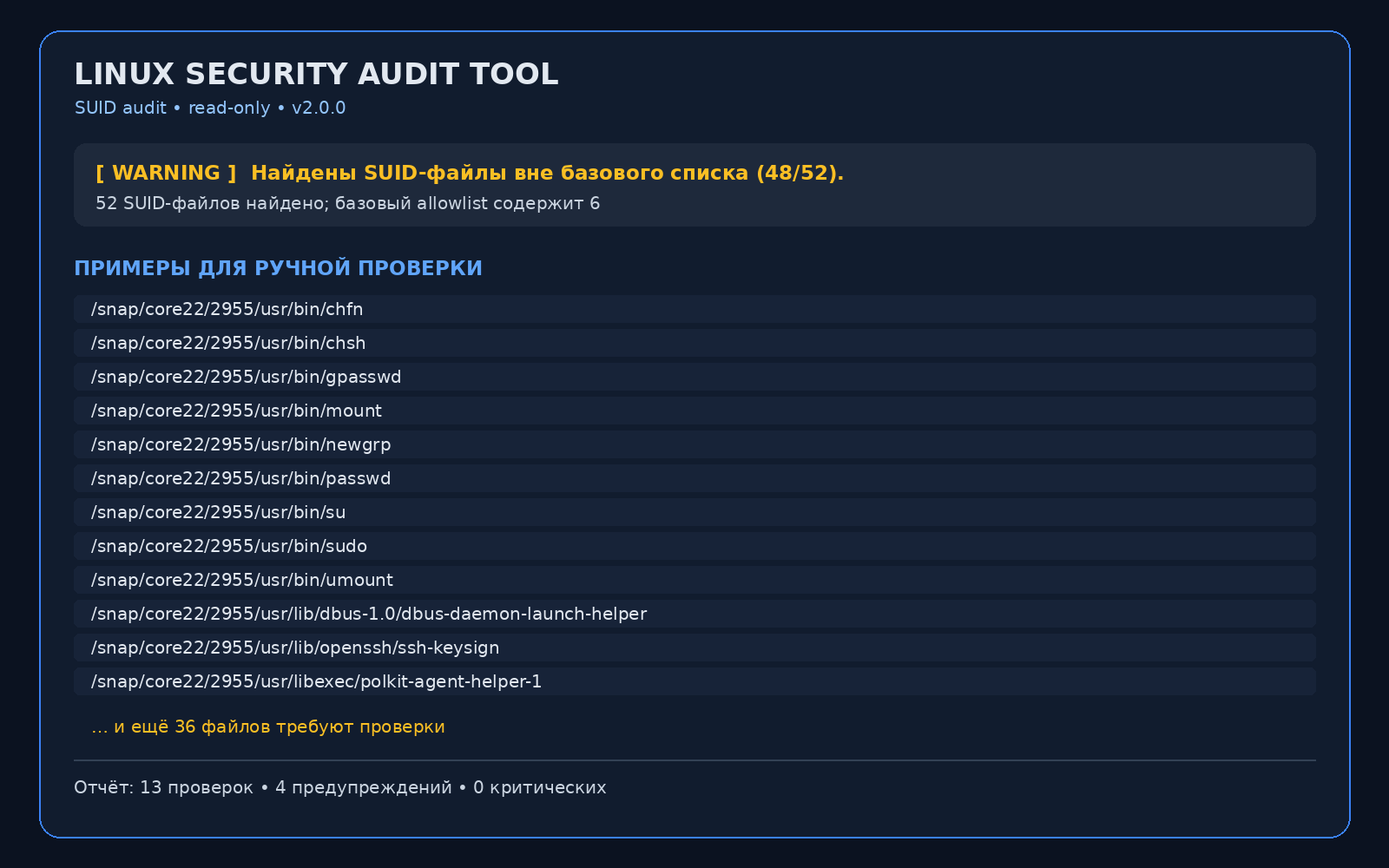
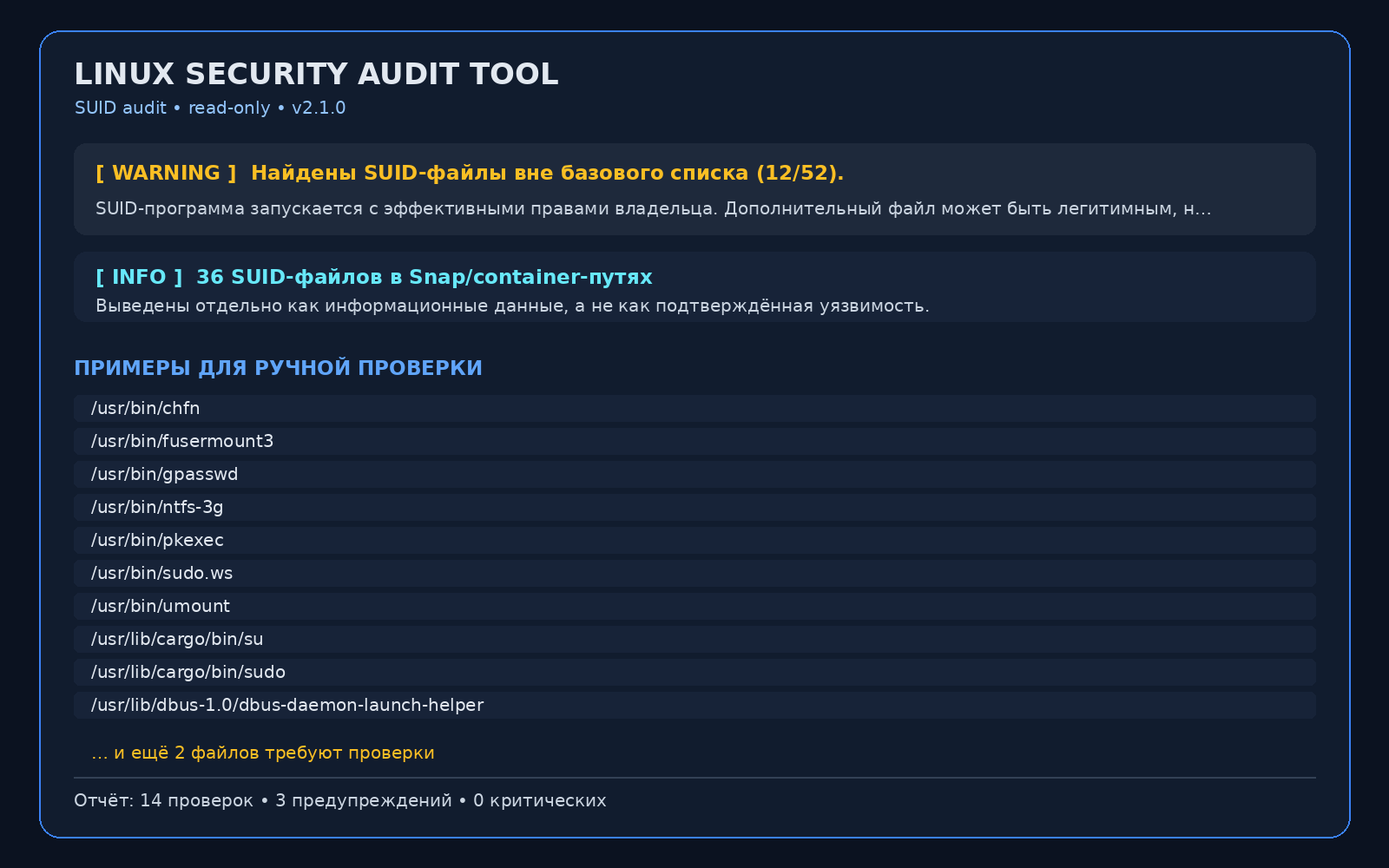
v2.1.0: refine Linux audit findings and tests

Changed region(s): [[0.0312, 0.279, 0.9375, 0.93], [0.0625, 0.186, 0.8438, 0.248]]

diff --git a/audit_pro.py b/audit_pro.py
@@ -19,10 +19,11 @@ import stat
 import subprocess
 import sys
 import unittest
+import tempfile
 from datetime import datetime, timezone
 
-VERSION = "2.0.0"
-LOG_FILE = "linux_security_audit.log"
+VERSION = "2.1.0"
+LOG_FILE = os.path.expanduser("~/.local/share/linux_audit/audit.log")
 
 
 class Color:
@@ -48,6 +49,7 @@ SUID_ALLOWLIST = {
     "/usr/bin/passwd", "/usr/bin/sudo", "/usr/bin/su",
     "/bin/mount", "/usr/bin/mount", "/usr/bin/chsh",
 }
+SUID_IGNORED_PREFIXES = ("/snap/", "/var/lib/snapd/", "/var/lib/docker/", "/var/lib/containerd/")
 SUID_OWNER_COMMANDS = {
     "apt": "dpkg -S", "dnf": "rpm -qf", "zypper": "rpm -qf",
     "pacman": "pacman -Qo", "apk": "apk info --who-owns",
@@ -61,9 +63,11 @@ UPDATE_COMMANDS = {
 }
 
 
-def setup_logging(path=LOG_FILE):
-    """Настроить журналирование в файл; ошибка лог-файла не прерывает аудит."""
+def setup_logging(path=None):
+    """Настроить журнал в пользовательском каталоге; ошибка не прерывает аудит."""
+    path = os.path.expanduser(path or LOG_FILE)
     try:
+        os.makedirs(os.path.dirname(path) or ".", mode=0o700, exist_ok=True)
         logging.basicConfig(filename=path, level=logging.INFO,
                             format="%(asctime)s %(levelname)s %(message)s",
                             encoding="utf-8", force=True)
@@ -104,16 +108,49 @@ def detect_distribution(os_release=None):
 
 def parse_update_names(lines):
     """Извлечь имена пакетов, игнорируя служебные заголовки менеджеров."""
-    ignored_prefixes = ("warning", "notice", "listing...", "name", "last metadata", "repository")
+    ignored_prefixes = ("warning", "notice", "listing...", "last metadata", "repository")
     names = []
     for line in lines:
         stripped = line.strip()
         if not stripped or stripped.lower().startswith(ignored_prefixes):
             continue
-        candidate = stripped.split()[0].split("/", 1)[0]
+        candidate = stripped.split()[0].split("/", 1)[0].split(":", 1)[0]
         if candidate not in ("", "*", "=") and candidate not in names:
             names.append(candidate)
     return names
+
+
+def evaluate_permission(path, mode):
+    """Вернуть уровень режима файла; более строгая маска допустима."""
+    allowed = {"/etc/passwd": 0o644, "/etc/shadow": 0o640, "/etc/sudoers": 0o440}.get(path)
+    if allowed is None or not (mode & ~allowed):
+        return "OK"
+    sensitive = path in ("/etc/shadow", "/etc/sudoers")
+    exposed = bool(mode & 0o077)
+    return "CRITICAL" if sensitive and exposed else "WARNING"
+
+
+def classify_suid_paths(paths, allowlist=None):
+    """Разделить SUID-пути на подозрительные и ожидаемые snap/container пути."""
+    allowed = SUID_ALLOWLIST if allowlist is None else allowlist
+    unusual, isolated = [], []
+    for path in paths:
+        if path in allowed:
+            continue
+        if path.startswith(SUID_IGNORED_PREFIXES):
+            isolated.append(path)
+        else:
+            unusual.append(path)
+    return unusual, isolated
+
+
+def update_result_status(manager, returncode, package_names):
+    """Нормализовать разные коды возврата менеджеров обновлений."""
+    accepted = {"apt": (0,), "dnf": (0, 100), "pacman": (0, 1),
+                "zypper": (0,), "apk": (0,)}.get(manager, (0,))
+    if returncode not in accepted:
+        return "ERROR"
+    return "UPDATES" if package_names else "OK"
 
 
 def command_result(args, timeout=15):
@@ -172,9 +209,9 @@ class LinuxSecurityAudit:
                              "Без метаданных файла нельзя подтвердить его защиту.",
                              "Проверьте наличие и доступность файла: sudo stat {}".format(path), {"path": path, "error": str(exc)})
                 continue
-            if mode & ~allowed:
-                critical = path in ("/etc/shadow", "/etc/sudoers")
-                self.finding("PERM-002", "Права доступа", "CRITICAL" if critical else "WARNING",
+            level = evaluate_permission(path, mode)
+            if level != "OK":
+                self.finding("PERM-002", "Права доступа", level,
                              "Слишком широкие права у {} ({:04o}).".format(path, mode), reason,
                              "sudo chmod {:04o} {}".format(allowed, path),
                              {"path": path, "mode": "{:04o}".format(mode)})
@@ -183,10 +220,10 @@ class LinuxSecurityAudit:
                              "Текущая маска не шире принятого базового значения.",
                              "Исправление не требуется.", {"path": path, "mode": "{:04o}".format(mode)})
 
-    def check_accounts(self):
+    def check_accounts(self, passwd_path="/etc/passwd", shadow_path="/etc/shadow"):
         """Найти дополнительные UID 0 и пустые поля паролей."""
         try:
-            with open("/etc/passwd", encoding="utf-8", errors="replace") as stream:
+            with open(passwd_path, encoding="utf-8", errors="replace") as stream:
                 users = [line.rstrip("\n").split(":") for line in stream if line.count(":") >= 6]
         except OSError as exc:
             self.finding("USER-001", "Пользователи", "WARNING", "Не удалось прочитать /etc/passwd.",
@@ -202,8 +239,12 @@ class LinuxSecurityAudit:
             self.finding("USER-OK", "Пользователи", "OK", "Дополнительных UID 0 нет.",
                          "Только аккаунт root имеет UID 0.", "Исправление не требуется.")
         try:
-            with open("/etc/shadow", encoding="utf-8", errors="replace") as stream:
-                empty = [parts[0] for line in stream if len(parts := line.rstrip("\n").split(":")) > 1 and parts[1] == ""]
+            with open(shadow_path, encoding="utf-8", errors="replace") as stream:
+                empty = []
+                for line in stream:
+                    parts = line.rstrip("\n").split(":")
+                    if len(parts) > 1 and parts[1] == "":
+                        empty.append(parts[0])
         except PermissionError:
             self.finding("PASS-001", "Пароли", "WARNING", "Недостаточно прав для чтения /etc/shadow.",
                          "Нельзя проверить, есть ли аккаунты с пустым полем пароля.",
@@ -215,7 +256,7 @@ class LinuxSecurityAudit:
             return
         if empty:
             self.finding("PASS-002", "Пароли", "CRITICAL", "Обнаружено пустое поле пароля.",
-                         "Такой аккаунт может допускать вход без пароля, если это разрешают остальные настройки.",
+                         "Поле пароля пустое; возможность входа зависит от PAM и настроек службы.",
                          "Задайте пароль: sudo passwd <пользователь> (либо заблокируйте аккаунт: sudo passwd -l <пользователь>).", {"users": empty})
         else:
             self.finding("PASS-OK", "Пароли", "OK", "Пустых полей пароля не обнаружено.",
@@ -324,7 +365,7 @@ class LinuxSecurityAudit:
                          "Проверка не завершена.", "Убедитесь, что доступна команда find.", {"error": str(exc)})
             return
         found = sorted(set(path.strip() for path in proc.stdout.splitlines() if path.strip()))
-        unusual = [path for path in found if path not in allowlist]
+        unusual, isolated = classify_suid_paths(found, allowlist)
         ownership = SUID_OWNER_COMMANDS.get(self.distro["package_manager"], "file")
         if unusual:
             details = [{"path": path, "owner_check": "{} {}".format(ownership, shlex.quote(path))}
@@ -335,9 +376,15 @@ class LinuxSecurityAudit:
                          "Проверьте каждый путь командами ls -l <путь> и {} <путь>; удаляйте SUID-бит только после проверки.".format(ownership),
                          {"files": details, "scanned_count": len(found), "allowlist": sorted(allowlist)})
         else:
-            self.finding("SUID-OK", "SUID", "OK", "Вне базового списка SUID-файлы не найдены.",
-                         "Найденные файлы совпадают с базовым allowlist.", "Исправление не требуется.",
-                         {"scanned_count": len(found), "allowlist": sorted(allowlist)})
+            self.finding("SUID-OK", "SUID", "OK", "Необычных SUID-файлов вне исключений не найдено.",
+                         "Файлы совпали с базовым allowlist или находятся в изолированных путях.",
+                         "Исправление не требуется.", {"scanned_count": len(found), "allowlist": sorted(allowlist)})
+        if isolated:
+            self.finding("SUID-003", "SUID", "INFO",
+                         "SUID-файлы в путях snap/контейнеров: {}.".format(len(isolated)),
+                         "Образы и изолированные пакетные файловые системы могут содержать штатные SUID-бинарники; эта классификация не подтверждает их безопасность.",
+                         "Действий не требуется, если эти образы и пакеты доверенные.",
+                         {"count": len(isolated), "files": isolated[:10]})
 
     def check_updates(self):
         """Получить список доступных обновлений без их установки."""
@@ -360,24 +407,29 @@ class LinuxSecurityAudit:
             lines = [line.strip() for line in proc.stdout.splitlines() if line.strip()]
         # У разных менеджеров различный формат; отбрасываем WARNING/NOTICE и заголовки.
         names = parse_update_names(lines)
-        updates_found = bool(names) and (proc is not None and proc.returncode in (0, 100))
-        if updates_found:
+        status = update_result_status(manager, proc.returncode, names) if proc is not None else "ERROR"
+        if status == "ERROR":
+            self.finding("UPD-001", "Обновления", "WARNING", "Менеджер пакетов не смог проверить обновления.",
+                         "Проверка завершилась ошибкой; возможно, нужны права или доступ к репозиториям.",
+                         UPDATE_COMMANDS.get(manager, "Проверьте настройки репозиториев."),
+                         {"error": proc.stderr.strip() if proc else "команда не запущена",
+                          "returncode": proc.returncode if proc else None})
+        elif status == "UPDATES":
             self.finding("UPD-002", "Обновления", "WARNING", "Доступны обновления пакетов ({}).".format(len(names)),
                          "Неустановленные обновления могут содержать исправления известных уязвимостей.",
                          UPDATE_COMMANDS.get(manager, "Обновите систему штатным менеджером пакетов."),
                          {"packages": names, "count": len(names), "package_manager": manager})
-        elif proc is None or proc.returncode not in (0, 100):
-            self.finding("UPD-001", "Обновления", "WARNING", "Менеджер пакетов не смог проверить обновления.",
-                         "Проверка завершилась ошибкой; возможно, нужны права или доступ к репозиториям.",
-                         UPDATE_COMMANDS.get(manager, "Проверьте настройки репозиториев."),
-                         {"error": proc.stderr.strip() if proc else "команда не запущена"})
         else:
             self.finding("UPD-OK", "Обновления", "OK", "Список ожидающих обновления пакетов пуст.",
                          "Менеджер пакетов не сообщил об обновлениях.", "Исправление не требуется.")
 
-    def check_ssh(self):
+    def check_ssh(self, path="/etc/ssh/sshd_config"):
         """Проверить активные директивы SSH в основном sshd_config."""
-        path = "/etc/ssh/sshd_config"
+        if not os.path.exists(path):
+            self.finding("SSH-000", "SSH", "INFO", "OpenSSH Server не установлен — проверка пропущена.",
+                         "Файл sshd_config отсутствует.",
+                         "Устанавливайте openssh-server только если нужен удалённый доступ.", {"path": path})
+            return
         try:
             with open(path, encoding="utf-8", errors="replace") as stream:
                 lines = stream.readlines()
@@ -397,7 +449,7 @@ class LinuxSecurityAudit:
                          "Компрометация root-пароля сразу даёт удалённые административные права.",
                          "Установите PermitRootLogin no в sshd_config, затем проверьте конфигурацию и перезапустите sshd.")
         else:
-            self.finding("SSH-OK", "SSH", "OK", "Явное PermitRootLogin yes не задано.",
+            self.finding("SSH-OK-ROOT", "SSH", "OK", "Явное PermitRootLogin yes не задано.",
                          "Прямой вход root не разрешён явной директивой yes.", "Исправление не требуется.", {"value": root})
         password = config.get("passwordauthentication", "default")
         if password == "yes":
@@ -405,7 +457,7 @@ class LinuxSecurityAudit:
                          "Пароли подвержены перебору и повторному использованию; ключи обычно надёжнее.",
                          "После проверки доступа по ключу установите PasswordAuthentication no в sshd_config и перезапустите sshd.")
         else:
-            self.finding("SSH-OK", "SSH", "OK", "Явное PasswordAuthentication yes не задано.",
+            self.finding("SSH-OK-PASS", "SSH", "OK", "Явное PasswordAuthentication yes не задано.",
                          "Парольный вход не разрешён явной директивой yes.", "Исправление не требуется.", {"value": password})
 
     def run(self):
@@ -560,14 +612,57 @@ class AuditSelfTests(unittest.TestCase):
         names = parse_update_names([
             "WARNING: apt does not have a stable CLI interface.",
             "Listing... Done", "curl/jammy 7.81 amd64 [upgradable from: 7.80]",
-            "curl/jammy 7.81 amd64 [upgradable from: 7.80]", "openssl/jammy 3.0 all",
+            "curl/jammy 7.81 amd64 [upgradable from: 7.80]",
+            "linux-image-6.8.0-45:amd64/jammy 6.8.0 amd64", "name/stable 1 all",
+            "openssl/jammy 3.0 all",
         ])
-        self.assertEqual(names, ["curl", "openssl"])
+        self.assertEqual(names, ["curl", "linux-image-6.8.0-45", "name", "openssl"])
 
     def test_suid_allowlist_is_defined(self):
         self.assertIn("/usr/bin/passwd", SUID_ALLOWLIST)
         self.assertEqual(SUID_OWNER_COMMANDS["apt"], "dpkg -S")
         self.assertEqual(SUID_OWNER_COMMANDS["dnf"], "rpm -qf")
+
+    def test_restrictive_permissions_are_accepted(self):
+        self.assertEqual(evaluate_permission("/etc/passwd", 0o600), "OK")
+        self.assertEqual(evaluate_permission("/etc/shadow", 0o600), "OK")
+        self.assertEqual(evaluate_permission("/etc/passwd", 0o664), "WARNING")
+        self.assertEqual(evaluate_permission("/etc/shadow", 0o644), "CRITICAL")
+
+    def test_suid_snap_paths_are_classified_as_info(self):
+        unusual, isolated = classify_suid_paths([
+            "/snap/core22/usr/bin/passwd", "/var/lib/docker/overlay2/layer/usr/bin/su",
+            "/opt/strange-suid", "/usr/bin/passwd",
+        ])
+        self.assertEqual(unusual, ["/opt/strange-suid"])
+        self.assertEqual(len(isolated), 2)
+
+    def test_missing_ssh_config_is_info(self):
+        audit = LinuxSecurityAudit()
+        audit.check_ssh(path="/definitely/missing/sshd_config")
+        self.assertEqual(len(audit.results), 1)
+        self.assertEqual(audit.results[0]["id"], "SSH-000")
+        self.assertEqual(audit.results[0]["level"], "INFO")
+
+    def test_empty_shadow_password_is_critical(self):
+        with tempfile.TemporaryDirectory() as directory:
+            passwd_path = os.path.join(directory, "passwd")
+            shadow_path = os.path.join(directory, "shadow")
+            with open(passwd_path, "w", encoding="utf-8") as stream:
+                stream.write("root:x:0:0:root:/root:/bin/sh\nalice:x:1000:1000::/home/alice:/bin/sh\n")
+            with open(shadow_path, "w", encoding="utf-8") as stream:
+                stream.write("root:!:1:0:99999:7:::\nalice::1:0:99999:7:::\n")
+            audit = LinuxSecurityAudit()
+            audit.check_accounts(passwd_path, shadow_path)
+            result = next(item for item in audit.results if item["id"] == "PASS-002")
+            self.assertEqual(result["level"], "CRITICAL")
+            self.assertEqual(result["details"]["users"], ["alice"])
+
+    def test_pacman_no_updates_is_success(self):
+        self.assertEqual(update_result_status("pacman", 1, []), "OK")
+        self.assertEqual(update_result_status("pacman", 0, ["bash"]), "UPDATES")
+        self.assertEqual(update_result_status("apt", 2, []), "ERROR")
+        self.assertEqual(update_result_status("dnf", 100, ["bash"]), "UPDATES")
 
     def test_update_commands_exist(self):
         for manager in ("apt", "dnf", "pacman", "zypper", "apk"):
@@ -599,6 +694,7 @@ def interactive_app():
         print("{}╠════════════════════════════════════════════════════╣{}".format(header, reset))
         print("{}║  1. Запустить полный аудит                         ║{}".format(header, reset))
         print("{}║  2. Запустить самопроверку                          ║{}".format(header, reset))
+        print("{}║  c. Очистить экран                                  ║{}".format(header, reset))
         print("{}║  3. Выход                                           ║{}".format(header, reset))
         print("{}╚════════════════════════════════════════════════════╝{}".format(header, reset))
         try:
@@ -606,6 +702,10 @@ def interactive_app():
         except (EOFError, KeyboardInterrupt):
             print("\nРабота завершена.")
             return 0
+        if choice in ("c", "clear", "очистить"):
+            if sys.stdout.isatty():
+                print("\033[2J\033[H", end="", flush=True)
+            continue
         if choice in ("3", "q", "quit", "выход"):
             print("Работа завершена.")
             return 0
@@ -642,7 +742,7 @@ def main(argv=None):
     setup_logging(args.log_file)
     if args.self_test:
         return 0 if run_self_tests() else 1
-    if args.menu or (not args.once and not args.json and sys.stdin.isatty() and len(sys.argv) == 1):
+    if args.menu or (not args.once and not args.json and sys.stdin.isatty()):
         return interactive_app()
     report = LinuxSecurityAudit().run()
     if args.json:

diff --git a/README.md b/README.md
@@ -1,30 +1,37 @@
-# Linux Security Audit Tool
+# Linux Security Audit & Remediation Tool v2.1.0
 
-Read-only Linux security audit CLI written with the Python standard library.
-It checks account and file permissions, listening ports, temporary files,
-SUID binaries, package updates, and selected SSH settings. Findings include
-severity, explanation, and suggested remediation commands. Commands are never
-executed automatically.
+Read-only Linux security audit CLI written with the Python standard library. It checks file permissions, UID 0 accounts, empty password fields, listening ports, temporary files, SUID binaries, package updates, and selected SSH settings. Findings include severity, reason, and a suggested remediation command. The tool never executes remediation commands.
 
-## Run as a terminal application
+## Requirements
 
-Make the launcher executable once, then start the interactive menu:
+Python 3.10 or newer. No external packages are required.
+
+## Usage
 
 ```bash
-chmod +x linux-audit
-./linux-audit
+./linux-audit                 # interactive menu
+./linux-audit --once          # one audit, no menu
+./linux-audit --json          # JSON output
+./linux-audit --self-test     # run the 10 built-in tests
+sudo ./linux-audit --once     # include protected files such as /etc/shadow
 ```
 
-The menu can start a full audit or the built-in self-tests and returns to the menu when finished. You can also run one-shot and automation modes directly:
+The audit can also be started with `python3 audit_pro.py`. Logs are written to `~/.local/share/linux_audit/audit.log` by default. Override the path with `--log-file PATH`.
 
-```bash
-python3 audit_pro.py --once
-python3 audit_pro.py --json
-python3 audit_pro.py --self-test
-```
+## Checks
 
-SUID discovery traverses `/` with `find`; it can take time on large filesystems.
-Unusual SUID files are findings for manual review, not proof of compromise.
-The scan uses a short baseline allowlist and may report legitimate vendor or
-container packages. Package ownership hints use `dpkg -S` on apt-based systems
-and `rpm -qf` elsewhere.
+| ID family | Check |
+| --- | --- |
+| `PERM-*` | Permissions on `/etc/passwd`, `/etc/shadow`, and `/etc/sudoers` |
+| `USER-*`, `PASS-*` | Additional UID 0 accounts and empty password fields |
+| `NET-*` | Listener inventory and selected risky ports |
+| `TMP-*` | Executable and SUID/SGID files in temporary directories |
+| `SUID-*` | SUID files outside the baseline and isolated Snap/container paths |
+| `UPD-*` | Package update availability through apt, dnf, pacman, zypper, or apk |
+| `SSH-*` | Root login and password authentication settings |
+
+SUID findings outside the baseline need manual verification; they are not proof of compromise. Snap and container paths are classified as informational, not automatically trusted. The SUID scan traverses `/` and may take time on large or networked filesystems.
+
+## Safety
+
+The program only reads system state and writes its own log. Suggested shell commands are displayed for review and are never run by the tool. Use it only on systems you own or are authorized to audit.
